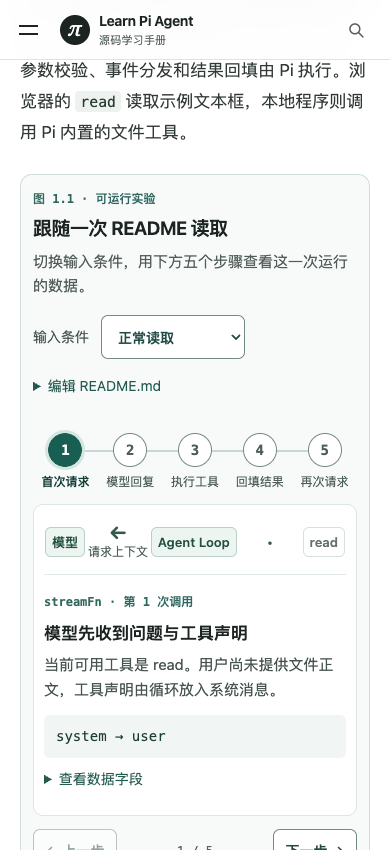
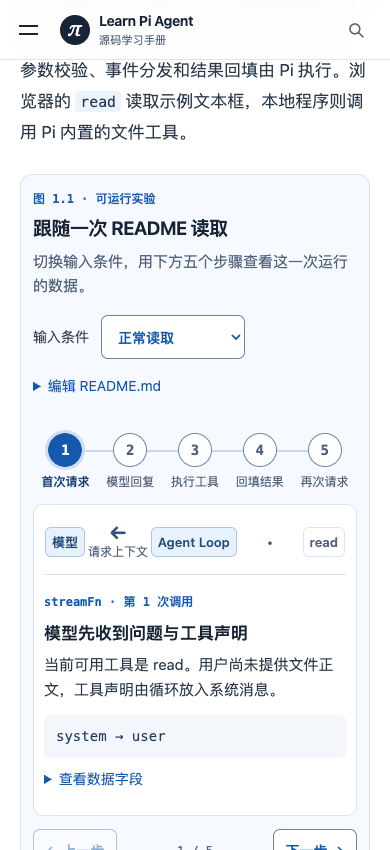
Add a curated agent source reading guide, exercise Pi edits, and switch to blue on white

diff --git a/website/experiments.css b/website/experiments.css
@@ -1,44 +1,44 @@
 .experiment {
   color: var(--ink); margin: 26px 0 12px; padding: 24px;
-  border: 1px solid #cddedb; border-radius: 16px; background: #f7faf9;
+  border: 1px solid var(--line); border-radius: 16px; background: #f6f9ff;
   line-height: 1.6; min-width: 0;
 }
 .experiment-caption { display: grid; gap: 5px; }
-.figure-no, .frame-source { color: #30675f; font: 600 12px/1.5 var(--mono); }
+.figure-no, .frame-source { color: var(--accent); font: 600 12px/1.5 var(--mono); }
 .experiment-caption strong { font-size: 21px; letter-spacing: -.025em; }
-.article .experiment-description { margin: 6px 0 18px; color: #525c59; font-size: 15px; }
+.article .experiment-description { margin: 6px 0 18px; color: var(--muted); font-size: 15px; }
 .experiment-settings { margin-bottom: 16px; }
 .experiment-settings:empty { display: none; }
-.case-picker { display: flex; align-items: center; gap: 12px; font-size: 14px; color: #46564f; }
+.case-picker { display: flex; align-items: center; gap: 12px; font-size: 14px; color: var(--text); }
 .case-picker select, .apply-fixture, .frame-button {
   min-height: 44px; padding: 6px 12px; border: 1px solid var(--control-line); border-radius: 7px;
-  background: #fff; color: #224b45; font: 600 14px/1.45 var(--sans); cursor: pointer;
+  background: #fff; color: var(--accent); font: 600 14px/1.45 var(--sans); cursor: pointer;
 }
 .edit-fixture { margin: 6px 0 0; }
 .edit-fixture summary, .frame-details summary {
-  width: fit-content; min-height: 44px; padding: 10px 0; color: #23594f; cursor: pointer; font-size: 14px;
+  width: fit-content; min-height: 44px; padding: 10px 0; color: var(--accent); cursor: pointer; font-size: 14px;
 }
 .edit-fixture textarea {
   display: block; margin: 3px 0 10px; padding: 10px 12px; width: 100%; resize: vertical;
-  border: 1px solid var(--control-line); border-radius: 7px; font: 14px/1.7 var(--mono); background: white; color: #182c29;
+  border: 1px solid var(--control-line); border-radius: 7px; font: 14px/1.7 var(--mono); background: white; color: var(--ink);
 }
 .frame-track { position: relative; display: grid; grid-template-columns: repeat(5, minmax(0,1fr)); padding: 8px 0 13px; }
-.frame-track::before { content: ''; position: absolute; top: 25px; left: 10%; right: 10%; height: 2px; background: #c8d7d3; }
+.frame-track::before { content: ''; position: absolute; top: 25px; left: 10%; right: 10%; height: 2px; background: #c9d9ec; }
 .frame-node { position: relative; display: grid; justify-items: center; align-content: start; gap: 6px;
-  background: transparent; color: #4d5d58; font: 13px/1.5 var(--sans); border: 0; padding: 0 2px; cursor: pointer; }
+  background: transparent; color: var(--muted); font: 13px/1.5 var(--sans); border: 0; padding: 0 2px; cursor: pointer; }
 .node-number { display: grid; place-items: center; width: 34px; height: 34px; border-radius: 50%;
   border: 1px solid var(--control-line); background: #fff; font: 600 14px/1 var(--mono); }
-.frame-node[aria-pressed="true"] { color: #153e37; font-weight: 700; }
-.frame-node[aria-pressed="true"] .node-number { background: var(--accent); color: #fff; border-color: var(--accent); outline: 3px solid #d5e5df; }
-.frame-body { padding: 16px 18px 13px; border-radius: 10px; background: #fff; border: 1px solid #dce7e3; }
+.frame-node[aria-pressed="true"] { color: #153e71; font-weight: 700; }
+.frame-node[aria-pressed="true"] .node-number { background: var(--accent); color: #fff; border-color: var(--accent); outline: 3px solid #cfdef5; }
+.frame-body { padding: 16px 18px 13px; border-radius: 10px; background: #fff; border: 1px solid var(--line); }
 .frame-title { display: block; margin: 5px 0; font-size: 17px; }
-.article .frame-body p { margin: 0 0 12px; font-size: 15px; line-height: 1.7; color: #46534e; }
-.article .frame-body pre { padding: 10px 12px; background: #f1f5f3; color: #1c3e35; border-radius: 6px;
+.article .frame-body p { margin: 0 0 12px; font-size: 15px; line-height: 1.7; color: var(--text); }
+.article .frame-body pre { padding: 10px 12px; background: var(--soft); color: #233e65; border-radius: 6px;
   font: 14px/1.65 var(--mono); white-space: pre-wrap; overflow-wrap: anywhere; max-height: 240px; }
 .frame-footer { display: flex; align-items: center; justify-content: space-between; gap: 8px; margin-top: 13px; }
-.frame-counter { font: 12px/1 var(--mono); color: #52625d; }
+.frame-counter { font: 12px/1 var(--mono); color: var(--muted); }
 .frame-button:disabled { opacity: .48; cursor: default; }
-.edit-fixture .apply-fixture, .frame-button:not(:disabled):hover { background: #e2efe9; }
+.edit-fixture .apply-fixture, .frame-button:not(:disabled):hover { background: var(--accent-soft); }
 .experiment + p > a:only-child { font-size: 14px; }
 @media (max-width: 639px) {
   .experiment { padding: 15px 12px; border-radius: 12px; }
@@ -58,16 +58,16 @@
   .book-intro img { width: min(100%, 285px); margin-inline: auto; }
 }
 
-.mechanism-map { margin: 0 0 12px; padding: 5px 1px 13px; border-bottom: 1px solid #e1eae6; }
+.mechanism-map { margin: 0 0 12px; padding: 5px 1px 13px; border-bottom: 1px solid var(--line); }
 .read-map { display: grid; grid-template-columns: auto 1fr auto 1fr auto; align-items: center; }
-.map-object { padding: 6px 9px; border-radius: 6px; border: 1px solid #d9dfdd; color: #65716c; font: 600 13px/1.4 var(--sans); }
-.map-object.lit { border-color: #b9cfc7; background: #edf5f1; color: #224f42; }
-.map-edge { text-align: center; display: grid; min-width: 0; color: #345a4a; }
+.map-object { padding: 6px 9px; border-radius: 6px; border: 1px solid var(--line); color: var(--muted); font: 600 13px/1.4 var(--sans); }
+.map-object.lit { border-color: #acc6e4; background: var(--accent-soft); color: #214c7d; }
+.map-edge { text-align: center; display: grid; min-width: 0; color: #314f78; }
 .map-edge b { font-size: 20px; line-height: 1; }
-.map-edge small, .history-group small { color: #4e6258; font: 12px/1.5 var(--sans); }
+.map-edge small, .history-group small { color: var(--muted); font: 12px/1.5 var(--sans); }
 .history-map { display: flex; justify-content: space-around; gap: 6px; align-items: end; }
 .history-group { display: grid; justify-items: center; gap: 5px; }
 .history-ids { display: flex; gap: 4px; }
-.history-ids b { display: grid; place-items: center; width: 28px; height: 28px; border: 1px solid #b9cfc7; background: #edf5f1; border-radius: 5px; color: #224f42; font: 600 14px/1 var(--mono); }
-.history-ids .summary-id { background: #315648; color: #fff; }
+.history-ids b { display: grid; place-items: center; width: 28px; height: 28px; border: 1px solid #acc6e4; background: var(--accent-soft); border-radius: 5px; color: #214c7d; font: 600 14px/1 var(--mono); }
+.history-ids .summary-id { background: var(--accent); color: #fff; }
 @media(max-width:639px) { .map-object { padding: 5px 6px; } .history-ids {gap: 2px;} .history-ids b {width: 25px;} }

diff --git a/website/style.css b/website/style.css
@@ -1,13 +1,13 @@
-/* A quiet reading surface: system type, one evergreen accent, and room for code. */
+/* A quiet reading surface: system type, one blue accent, and room for code. */
 :root {
-  --ink: #1c2422;
-  --text: #303936;
-  --muted: #59645f;
-  --line: #dde3df;
-  --soft: #f3f6f4;
-  --accent: #185e52;
-  --accent-soft: #e6f2ed;
-  --control-line: #758a80;
+  --ink: #172436;
+  --text: #29384a;
+  --muted: #52627a;
+  --line: #dbe4ef;
+  --soft: #f3f7fc;
+  --accent: #1459ad;
+  --accent-soft: #e8f2ff;
+  --control-line: #70849e;
   --sidebar-width: 248px;
   --header-height: 64px;
   --sans: -apple-system, BlinkMacSystemFont, "SF Pro Text", "PingFang SC", "Microsoft YaHei", sans-serif;
@@ -46,13 +46,13 @@ button { -webkit-tap-highlight-color: transparent; }
 .icon-button span { display: block; width: 19px; height: 2px; margin: 3px 0; background: var(--ink); }
 .menu-toggle { display: none; }
 .layout { padding-top: var(--header-height); }
-.sidebar { position: fixed; top: var(--header-height); bottom: 0; left: 0; z-index: 20; width: var(--sidebar-width); background: #f8faf9; border-right: 1px solid var(--line); }
+.sidebar { position: fixed; top: var(--header-height); bottom: 0; left: 0; z-index: 20; width: var(--sidebar-width); background: #f8fafd; border-right: 1px solid var(--line); }
 .sidebar-inner { height: 100%; display: flex; flex-direction: column; overflow-y: auto; overscroll-behavior: contain; padding: 28px 16px 24px; }
 .side-heading { margin: 0 12px 20px; font-size: 15px; font-weight: 650; }
 .nav-group { margin-bottom: 24px; }
 .nav-label { margin: 0 12px 6px; font-size: 12px; line-height: 1.6; font-weight: 600; color: var(--muted); }
 .nav-link { display: flex; align-items: flex-start; gap: 10px; min-height: 38px; padding: 8px 12px; border-radius: 7px; color: #515158; font-size: 14px; line-height: 1.55; }
-.nav-link:hover { background: #edf1ef; color: var(--ink); }
+.nav-link:hover { background: #eaf0f8; color: var(--ink); }
 .nav-link.active { color: var(--accent); background: var(--accent-soft); font-weight: 600; }
 .nav-no { min-width: 19px; padding-top: 3px; color: var(--muted); font: 11px/1.5 var(--mono); }
 .nav-link.active .nav-no { color: var(--accent); }
@@ -73,13 +73,13 @@ button { -webkit-tap-highlight-color: transparent; }
 .article h3 { margin: 32px 0 14px; font-size: 20px; font-weight: 600; }
 .article h4 { margin: 28px 0 12px; font-size: 18px; }
 .article strong { font-weight: 650; color: var(--ink); }
-.article a { color: var(--accent); text-decoration: underline; text-decoration-color: #9bbab0; text-decoration-thickness: 1px; text-underline-offset: 4px; }
+.article a { color: var(--accent); text-decoration: underline; text-decoration-color: #9bbbe0; text-decoration-thickness: 1px; text-underline-offset: 4px; }
 .article a:hover { text-decoration-color: currentColor; }
 .article ul, .article ol { padding-left: 1.5em; margin: 18px 0 24px; }
 .article blockquote { margin: 22px 0; padding: 16px 20px; border-left: 3px solid #9b9ba4; border-radius: 0 8px 8px 0; background: var(--soft); }
 .article blockquote p:last-child { margin-bottom: 0; }
 .article img { display: block; width: auto; max-width: 100%; max-height: 416px; height: auto; object-fit: contain; margin: 28px auto; }
-.article code { padding: 2px 5px; border-radius: 4px; background: #edf2ef; color: #283c34; overflow-wrap: anywhere; box-decoration-break: clone; -webkit-box-decoration-break: clone; font: .87em/1.5 var(--mono); }
+.article code { padding: 2px 5px; border-radius: 4px; background: #edf3fa; color: #253c58; overflow-wrap: anywhere; box-decoration-break: clone; -webkit-box-decoration-break: clone; font: .87em/1.5 var(--mono); }
 .article h2 code, .article h3 code { color: inherit; }
 .lesson-figure { margin: 28px 0; }
 .article .lesson-figure a { display: grid; justify-items: center; gap: 6px; margin: auto; width: fit-content; max-width: 100%; cursor: zoom-in; text-decoration: none; }
@@ -87,16 +87,16 @@ button { -webkit-tap-highlight-color: transparent; }
 .lesson-figure a span { color: var(--accent); font-size: 13px; }
 .lesson-figure a:hover span { text-decoration: underline; }
 .code-block {
-  --code-bg: #f5f7f6; --code-ink: #24322e; --code-meta: #52645b;
-  --code-line: #d9e1dc; --code-key: #743d79; --code-str: #266044;
-  --code-com: #55695f; --code-name: #254f75; --code-num: #7b491e;
+  --code-bg: #f5f8fc; --code-ink: #23354b; --code-meta: #4c607a;
+  --code-line: #d9e3ef; --code-key: #743d79; --code-str: #266044;
+  --code-com: #52647d; --code-name: #254f75; --code-num: #7b491e;
   min-width: 0; margin: 22px 0 28px; overflow: hidden; border: 1px solid var(--code-line);
   border-radius: 11px; background: var(--code-bg); color: var(--code-ink);
 }
 .code-block[data-language="bash"] {
-  --code-bg: #232b28; --code-ink: #eff4f1; --code-meta: #c6d2cb;
-  --code-line: #424e48; --code-key: #efb5df; --code-str: #b6e2b7;
-  --code-com: #bdcbc2; --code-name: #bddcf2; --code-num: #f0cca3;
+  --code-bg: #1d293b; --code-ink: #f2f6fc; --code-meta: #c3d0e2;
+  --code-line: #3c506a; --code-key: #efb5df; --code-str: #b6e2b7;
+  --code-com: #bfcee0; --code-name: #bddcf2; --code-num: #f0cca3;
 }
 .code-toolbar { display: flex; align-items: center; justify-content: space-between; min-height: 40px; padding: 0 8px 0 18px; border-bottom: 1px solid var(--code-line); color: var(--code-meta); font: 600 12px/1.5 var(--mono); }
 .code-toolbar button { min-height: 40px; padding: 4px 10px; border: 0; border-radius: 5px; background: transparent; color: inherit; font: 13px/1.5 var(--sans); }
@@ -142,7 +142,7 @@ button { -webkit-tap-highlight-color: transparent; }
 .home-intro p { margin: 0 0 24px; color: var(--muted); font-size: 18px; line-height: 1.75; }
 .home-actions { display: flex; align-items: center; flex-wrap: wrap; gap: 16px 24px; }
 .primary-btn { display: inline-flex; align-items: center; justify-content: center; gap: 12px; min-height: 46px; padding: 10px 22px; border-radius: 999px; background: var(--accent); color: #fff; font-size: 15px; white-space: nowrap; }
-.primary-btn:hover { background: #134c42; }
+.primary-btn:hover { background: #104787; }
 .continue-link, .section-link { display: inline-flex; align-items: center; gap: 5px; min-height: 44px; color: var(--accent); font-size: 15px; }
 .continue-link:hover, .section-link:hover { text-decoration: underline; text-underline-offset: 4px; }
 .hero-visual { display: flex; flex-direction: column; justify-content: space-between; height: 210px; padding: 22px 28px; border-radius: 14px; background: var(--soft); }

diff --git a/website/app.js b/website/app.js
@@ -36,7 +36,7 @@ function group(label, entries) {
 }
 function renderNav() {
   const guides = ['home','00-source-learning-path','00-course-structure'].map(s => s === 'home' ? {slug:'home', title:'课程首页'} : bySlug(s)).filter(Boolean);
-  const refs = ['source-map','glossary','papers','version-baseline'].map(bySlug).filter(Boolean);
+  const refs = ['open-source-agent-reading','source-map','glossary','papers','version-baseline'].map(bySlug).filter(Boolean);
   nav.innerHTML = group('开始学习',guides) + group('基础与运行',chapters.slice(0,4)) + group('上下文与能力',chapters.slice(4,9)) + group('工作流与编排',chapters.slice(9,14)) + group('工程实践',chapters.slice(14)) + group('参考资料',refs);
 }
 function home() {

diff --git a/website/build.py b/website/build.py
@@ -99,7 +99,7 @@ for p in files:
         elif not href.startswith('#'):
             parts=href.split('#',1); target=(p.parent/unquote(parts[0])).resolve()
             if target in slugs:
-                a['href']='#/'+slugs[target]+(('?section='+quote(parts[1])) if len(parts)>1 else '')
+                a['href']='#/'+slugs[target]+(('?section='+quote(unquote(parts[1]))) if len(parts)>1 else '')
             else:
                 try:
                     rel=target.relative_to(ROOT).as_posix()

diff --git a/references/open-source-agent-reading.md b/references/open-source-agent-reading.md
@@ -1,0 +1,39 @@
+# 高星 Agent 开源资料：从哪一段代码读起
+
+如果你想知道一个 Coding Agent 到底怎样工作，我建议先读一节能放进脑子里的教学实现，再找一个成熟项目，拿相同的输入比较它们的行为。以下五个项目分别回答不同的问题。星数来自 2026-11-02 查询的 GitHub 仓库数据，是整个项目的关注度；选入哪一节，依据是能否找到具体输入、实现或检验结果。
+
+| 项目 | GitHub Stars（约） | 类型 | 建议直接打开 |
+| --- | --- | --- | --- |
+| [Learn Claude Code](https://github.com/shareAI-lab/learn-claude-code) | 79.8k | 有中文的自建 Harness 教程 | [第 8 课：上下文压缩](https://github.com/shareAI-lab/learn-claude-code/blob/main/s08_context_compact/README.zh.md) |
+| [Aider](https://github.com/Aider-AI/aider) | 49.9k | 实际编码工具，适合源码对读 | [SEARCH/REPLACE 的匹配实现](https://github.com/Aider-AI/aider/blob/main/aider/coders/editblock_coder.py#L134-L183) |
+| [LangGraph](https://github.com/langchain-ai/langgraph) | 44.3k | 图执行框架，适合读恢复测试 | [一个并行节点失败后从哪里继续](https://github.com/langchain-ai/langgraph/blob/main/libs/langgraph/tests/test_pregel.py#L891-L988) |
+| [Hello-Agents](https://github.com/datawhalechina/hello-agents) | 85.8k | 中文系统教材，附实验代码 | [第 12 章：智能体性能评估](https://github.com/datawhalechina/hello-agents/blob/main/docs/chapter12/%E7%AC%AC%E5%8D%81%E4%BA%8C%E7%AB%A0%20%E6%99%BA%E8%83%BD%E4%BD%93%E6%80%A7%E8%83%BD%E8%AF%84%E4%BC%B0.md) |
+| [Hugging Face Agents Course](https://github.com/huggingface/agents-course) | 34.3k | 有实际任务和交付格式的课程 | [最终项目：拿 GAIA 题目测自己的 Agent](https://github.com/huggingface/agents-course/blob/main/units/en/unit4/hands-on.mdx) |
+
+## 先读 Learn Claude Code：上下文超预算时，先丢什么
+
+从第 8 课的 Python 文件里找 `ContextCompactor.prepare()`。假设工具刚返回一大段日志。先跟踪这段输出是否能被缩短并从别处找回，再跟踪整份历史是否仍超预算。换成几十个很短的往返回合，总量也可能超限，两种输入却不必经由同一分支。读源码时，把每次调用后留在 messages 的内容写在旁边，比背“上下文压缩”这个名词有效。[中文课文](https://github.com/shareAI-lab/learn-claude-code/blob/main/s08_context_compact/README.zh.md) · [prepare 的执行次序](https://github.com/shareAI-lab/learn-claude-code/blob/main/s08_context_compact/code.py#L518-L545)
+
+这是作者自行实现的教学 Harness。对读 Pi 时可以问一个更窄的问题：摘要产生以后，原先那条工具结果还能从哪里找到？在 Pi 的会话树里，读取日志与构建下一次模型输入是两个操作；一份摘要出现在投影中，不代表旧条目已经从日志里删除。用同一条记录分别观察这两层，就能比较两个系统究竟保存了什么。[Pi 的会话投影实验](../docs/06-session-memory-retrieval-and-compaction.md)
+
+## 再读 Aider：同一个替换请求，两个工具会改到同一处吗
+
+在 Aider 的 `perfect_replace` 中，外层循环从上到下滑过文件的行数组。找到第一段逐行相等的内容，就拼接前缀、替换文本和后缀并返回。拿一个生产配置和开发配置各有一行 `limit=10` 的文件，只给整行作为搜索条件。单看这个精确匹配函数，先出现的生产配置会被替换。这个结论针对该函数及该编辑格式；Aider 还有其他编辑格式，读取本段不能概括所有路径。[选择匹配区间](https://github.com/Aider-AI/aider/blob/main/aider/coders/editblock_coder.py#L134-L183) · [上游编辑块测试](https://github.com/Aider-AI/aider/blob/main/tests/basic/test_editblock.py)
+
+把同一个文件交给 Pi，结果是工具报告有两处匹配，磁盘写入次数为零。将开发配置的上一行也放入 oldText，才会改到预期位置。课程第四章给出这组输入和可运行程序，并进一步检查两个修改区间重叠、字符归一化后出现重复、写入后收到取消这几种情况。研究一个真实编码工具，从这里进入比先罗列它支持多少模型更贴近使用者会碰到的故障。[Pi 编辑工具源码实验](../docs/04-tools-and-function-calling.md#写入实验一次-edit-为什么会被拒绝)
+
+## 读 LangGraph 的失败测试：恢复时哪段工作会重复
+
+先打开 `test_pending_writes_resume`，看两个节点各有一个调用计数器。一个返回更新，另一个抛异常并触发配置好的重试。首次调用失败时，两个计数分别是 1 和 2。保持错误再从相同线程继续，测试断言它们变成 1 和 4。若简单地把整张图重跑，这两个数字都应增加。沿断言往前追 checkpoint 和 pending writes，就能找到“成功节点的结果被留下”具体对应哪一层数据。[测试与断言](https://github.com/langchain-ai/langgraph/blob/main/libs/langgraph/tests/test_pregel.py#L891-L988) · [持久化说明](https://docs.langchain.com/oss/python/langgraph/persistence)
+
+对读 Pi 的 Durable 章，要重新确定恢复的对象。图框架能记住某个节点的状态更新，不代表支付服务一定能辨认一次重复请求。把故障点放在“外部动作已经完成、本地结果还没写入”之间，看看任务能凭什么身份查询上一次操作。比较系统时，先写出哪一边拥有事实，再讨论是否安全重跑。[Pi 的任务恢复](../docs/16-durable-execution-and-human-in-the-loop.md)
+
+## 读 Hello-Agents 与 Hugging Face：一条轨迹凭什么得分
+
+Hello-Agents 第 12 章将工具调用评测与完整任务评测分开。它的 BFCL 示例可限制为五个样本，并逐条输出问题、预测值、期望值和是否成功。遇到“模型会选工具，但工具参数经常错”的问题，先看一对预测和期望，把错误定位到工具名、参数名或参数值，比只看总体准确率更直接。[中文评估章](https://github.com/datawhalechina/hello-agents/tree/main/docs/chapter12) · [带逐样本输出的 BFCL 程序](https://github.com/datawhalechina/hello-agents/blob/main/code/chapter12/03_bfcl_custom_evaluation.py)
+
+Hugging Face 的最终项目把目标换成完整任务：课程选取 20 道 GAIA 验证集的一级问题，部分任务需要取附件，提交时将任务编号与最终答案配对。它适合检验“能否独立完成题目”。如果程序提交错答案，仅看得分并不能区分它读错了附件、推理出错，还是提交格式不符。回到 Pi 的轨迹与工具事件，才能找出第一个偏离预期的步骤。[最终项目的输入与交付格式](https://github.com/huggingface/agents-course/blob/main/units/en/unit4/hands-on.mdx) · [Pi 的可观测性与评测](../docs/18-observability-evaluation-and-harness-engineering.md)
+
+## 现有 Pi 课程还缺什么
+
+目前能沿一次确定的请求追到工具和会话，刚补上的文件编辑实验也能检验写入条件。要把这些机制用来开发自己的编码 Agent，还缺三类完整练习：让读者亲手补上一个源码决策并跑回归测试，让同一长任务在固定预算下对比两种上下文策略，以及把真实模型在多道仓库修复题上的补丁、测试结果和费用逐项配对。上面的五份资料分别能提供实现、故障用例和评测方法。这三类练习仍是课程的缺口。

diff --git a/docs/04-tools-and-function-calling.md b/docs/04-tools-and-function-calling.md
@@ -258,6 +258,57 @@ expect(turnToolResultIds).toEqual(["tool-1", "tool-2"]);
 
 在课程的本地示例中，`node cli.mjs missing` 让脚本模型请求不存在的 `absent.md`。实测 `read.execute` 进入 1 次，随后 `read-1` 收到 `isError=true`。与上一章截断场景的 0 次对照，两条同为错误的工具结果就能定位到不同的失败阶段。[运行方法](../examples/read-loop/README.md) · [磁盘读取入口](../examples/read-loop/cli.mjs)
 
+## 写入实验：一次 edit 为什么会被拒绝
+
+你让编码 Agent 把**开发环境**的限额从 10 改成 12，文件中却有两个环境。模型提出替换「两个空格、`limit=10`、换行」这一整行。JSON 参数合规、文件存在、旧文字也找得到。这次能写吗？
+
+```text
+prod:
+  limit=10
+dev:
+  limit=10
+```
+
+先从调用者的目的看：两个位置都匹配，只有第二处符合“开发环境”。工具拿到的是文件路径、旧文本和新文本，参数中没有开发环境这个独立字段。只要执行器决定接受第一处，模型就可能得到一个成功结果，而生产配置已经被改了。要看 Pi 如何作选择，就得追到实际写入之前。
+
+### 在文件里找到它，还要证明它可以唯一定位
+
+`createEditToolDefinition` 将路径解析到当前工作目录，进入该文件的修改队列，读取字节，剥离开头可能存在的 UTF-8 BOM，并将换行暂时归一化为 LF。接着它将**原文件内容与整批 edits**交给 `applyEditsToNormalizedContent`。这个函数必须先构造出新的完整内容，外层才有东西可交给 `ops.writeFile`。[工具调用与实际写入](https://github.com/earendil-works/pi/blob/072e413bf3f8ee0cf8d9f2862fd1dbfc5d337afa/packages/coding-agent/src/core/tools/edit.ts#L157-L208)
+
+在替换函数中找到两个相邻判断。`fuzzyFindText` 返回一处候选位置；如果一处都没有，抛出未找到错误。随后 `countOccurrences` 另算出现次数，大于 1 又会抛错。**找到第一处**只能证明至少有一处；要写入还必须排除第二处。把上一行 `dev:` 也放进旧文本，再用含相同前缀的新文本替换，候选区间就只有一个。这次工具写盘一次，`prod` 行保持原值。[查找、计数与保存位置](https://github.com/earendil-works/pi/blob/072e413bf3f8ee0cf8d9f2862fd1dbfc5d337afa/packages/coding-agent/src/core/tools/edit-diff.ts#L316-L340)
+
+同样的输入也可以拿去读 Aider。它的 SEARCH/REPLACE 编辑器有个短函数 `perfect_replace`：固定搜索段的行数，在完整文件上向前滑动窗口，遇到第一段逐行完全相等时立即返回拼接结果。在上面的输入上，独立调用这个函数得到 `prod=12`、`dev=10` 所对应的文件内容；Pi 则拒绝这次模糊意图。这里比较的是 Aider 的这一条精确匹配分支与 Pi 的编辑工具，两个实现对“已经找到”承担的责任不同。[Aider 的匹配函数](https://github.com/Aider-AI/aider/blob/main/aider/coders/editblock_coder.py#L146-L155)
+
+再换一个输入：文件有两行，分别是 `name=“dev”` 与 `name="dev"`，模型提供直引号的那行。肉眼只看到一个逐字相等的目标，Pi 在本例中仍报告两处。`countOccurrences` 对文件和搜索串都运行 `normalizeForFuzzyMatch` 再计数，弯引号与直引号会折叠成相同字符。这样一来，**哪怕精确查找已经成功，唯一性检查仍可能失败**。此时应补入能区分位置的相邻文本，而不是反复让模型重新转义引号。[字符归一化](https://github.com/earendil-works/pi/blob/072e413bf3f8ee0cf8d9f2862fd1dbfc5d337afa/packages/coding-agent/src/core/tools/edit-diff.ts#L35-L53) · [出现次数的实际算法](https://github.com/earendil-works/pi/blob/072e413bf3f8ee0cf8d9f2862fd1dbfc5d337afa/packages/coding-agent/src/core/tools/edit-diff.ts#L247-L251)
+
+### 同一批两个修改，为什么从后往前应用
+
+用去掉 BOM、统一换行后的字符串 `aa\nzz\n` 手算一次。第一项要将 `aa` 替成七个 a，旧区间为 [0, 2)；第二项要将 `zz` 替成 Z，旧区间为 [3, 5)。两项的位置都来自**修改前**的文件。如果先把第一项增长五个字符，再用原先的位置 3 去找第二项，那里早已变成 a。Pi 先按起点排序，比较相邻区间，若后一个起点落在前一个区间内便报重叠。区间互不重叠时从右往左替换：先动位置 3，不会移动前面的 0；再动位置 0，已经处理完的尾部会整体随它移动。[区间校验](https://github.com/earendil-works/pi/blob/072e413bf3f8ee0cf8d9f2862fd1dbfc5d337afa/packages/coding-agent/src/core/tools/edit-diff.ts#L341-L358) · [逆序写入内存字符串](https://github.com/earendil-works/pi/blob/072e413bf3f8ee0cf8d9f2862fd1dbfc5d337afa/packages/coding-agent/src/core/tools/edit-diff.ts#L111-L122)
+
+所以第二项找不到、第二项与第一项重叠，都发生在写文件**之前**。第一项即使单独看完全合法，本批也不会先把它写进去。成功时外层按原有换行形式恢复文本、补回 BOM，再调用文件后端。实验直接比较文件字节，能区分界面上看起来完全一样的 LF 与 CRLF。
+
+### 把错误提示和磁盘事实分别量出来
+
+以下实验在临时目录运行 Pi 内置编辑工具，计数器包在真正的写文件函数外面。每次调用完都重新打开磁盘文件做断言；无需模型密钥。[完整程序](../examples/read-loop/edit-boundaries.mjs)
+
+```bash
+cd examples/read-loop
+npm ci
+node edit-boundaries.mjs
+```
+
+| 只改动这个条件 | 调用者观察到 | 写盘次数 | 文件里实际留下什么 |
+| --- | --- | --- | --- |
+| 只给重复的旧行 | 两处匹配 | 0 | 两处仍为 10 |
+| 把目标配置行前的 `dev:` 也纳入匹配 | 成功，附 patch | 1 | 只有 dev 变成 12 |
+| 第一项正确，第二项不存在 | 定位到第二项的错误 | 0 | 第一项也没写入 |
+| 两项都唯一，但区间重叠 | 区间冲突 | 0 | 保持原文 |
+| 一处直引号与一处弯引号 | 归一化后重复 | 0 | 保持两种原始引号 |
+| 带 BOM、CRLF 的文件，两个替换长度不同 | 成功，附 patch | 1 | 两项均正确，BOM 与 CRLF 都在 |
+| 后端已写完，随后发出取消信号 | 调用抛出中止错误 | 1 | dev 已变成 12 |
+
+最后一行值得单独停一下。文件后端完成写入后，`execute` 还会再检查一次取消信号。实验故意在这个间隙触发取消，调用者收到错误，而文件已经变了。前几行证明的是「校验失败前没有执行写操作」，最后一行说明这项保证止于何处。若上层看到取消就盲目重试同一批 oldText，第二次很可能变成找不到旧文字。先重读或核对实际 diff，才能决定下一步。第十六章的持久任务会面对同一类问题，只是事实可能保存在另一项服务里。[任务中断后的恢复](16-durable-execution-and-human-in-the-loop.md)
+
 > **先预测**　给 read 指定 limit=1，是不是意味着 Pi 在磁盘上只读一行？
 >
 > **核对推导**　普通文本路径先读文件、解码、按行切分，再对返回给模型的内容应用行数和字节限制。结果只含一行不能证明磁盘只读了一行；要验证磁盘读取量，应观察文件操作那一层。

diff --git a/website/UI-REVIEW.md b/website/UI-REVIEW.md
@@ -1,6 +1,6 @@
 # 课程网站阅读界面检查
 
-覆盖首页、18 章正文、2 份学习指南和 5 份参考资料。使用 Chromium 在 320、390、768、1024、1440 像素宽度下逐页打开，共 130 组页面与视口组合，均未出现整页横向溢出。
+覆盖首页、18 章正文、2 份学习指南和 6 份参考资料。使用 Chromium 在 320、390、768、1024、1440 像素宽度下逐页打开，共 135 组页面与视口组合，均未出现整页横向溢出。
 
 ## 文字与色彩
 
@@ -12,7 +12,7 @@
 | 目录 | 课程目录常驻，1360px 起同时展示本页目录 | 课程目录为抽屉，本页目录可以展开 |
 | 图与表 | 配图按比例展示，可打开大图 | 宽表单独滚动，剩余列有文字提示 |
 
-首页主按钮、选中章节、链接与实验当前步骤使用深绿色。白底正文对比度为 11.90∶1，白底链接为 7.60∶1，浅色代码面板上的注释为 5.46∶1。代码的关键词、字符串和数字仍使用独立的语法颜色。[首页](review/home.png) · [桌面正文](review/desktop.png) · [手机正文](review/mobile.png)
+首页主按钮、选中章节、链接与实验当前步骤使用蓝色，阅读区域使用白底。白底正文对比度为 11.94∶1，白底链接为 6.86∶1，浅色代码面板上的注释为 5.67∶1。代码的关键词、字符串和数字仍使用独立的语法颜色。[首页](review/home.png) · [桌面正文](review/desktop.png) · [手机正文](review/mobile.png)
 
 ## 浏览器复查
 
@@ -20,6 +20,6 @@
 - **表格**　在第 13 章用方向键横移宽表，读到第三列。切回桌面且表格完整可见时，滚动提示和额外的键盘停靠点都消失。[手机表格](review/mobile-table.png)
 - **配图与图解**　18 张章节配图都提供大图入口。实际打开第 14 章插图得到 1672 × 941 的图片。运行第一、三、六章图解并切换输入、步骤与会话分支。[桌面图解](review/read-loop-desktop.png) · [手机图解](review/read-loop-mobile.png)
 - **查找与跳转**　在手机打开并关闭课程目录，从搜索结果跳到对应小节，检查字号、遮罩和点击区域。[手机目录](review/mobile-menu.png) · [搜索](review/search.png)
-- **文字对比**　对 26 页及手机目录、搜索两个展开状态运行 axe 的文字对比检查。图解步骤线、符号单元格和搜索结果共有 38 处需要补核。滚动到相应位置后，以实际字体色和背景色复算，对比最低为 6.15∶1。
+- **文字对比**　对 27 页及手机目录、搜索两个展开状态运行 axe 的文字对比检查。图解步骤线、符号单元格和搜索结果共有 38 处需要补核。滚动到相应位置后，以实际字体色和背景色复算，对比最低为 5.88∶1。
 
 检查使用 Chromium 的桌面与手机视口模拟。

diff --git a/examples/read-loop/README.md b/examples/read-loop/README.md
@@ -30,6 +30,7 @@ npm run session
 | 章节 | 运行 | 对照什么 |
 | --- | --- | --- |
 | 02–05 | `node boundaries.mjs stream`、`queue`、`bytes`、`context`（任选一个作为参数） | 两个工具参数交错、消息投递时机、整行字节预算和系统指令重放 |
+| 04 | `node edit-boundaries.mjs` | 运行内置 edit，检验匹配歧义、批量区间、文件编码与取消后的磁盘内容 |
 | 06 | `node recompact.mjs` | 两次压缩、一次编辑，再切回旧叶子的可见消息 |
 | 07 | [MCP 往返](../mcp-roundtrip/roundtrip.mjs)：在其目录运行 `npm ci && npm start` | 两个响应乱序与一条被取消的请求 |
 | 08、09 | `node skills.mjs`、`node context-hooks.mjs` | 同名技能留下谁、旧扩展上下文何时失效 |

diff --git a/docs/00-source-learning-path.md b/docs/00-source-learning-path.md
@@ -36,3 +36,5 @@ npm run build
 ```
 
 所有示例都附有讲解，你可以选择只在网页上沿图阅读，也可以在本地运行同一份程序。查询某个函数属于哪个包时，可使用[源码地图](../references/source-map.md)和[术语表](../references/glossary.md)。
+
+想看其他项目如何处理同一个问题，可以打开[高星开源 Agent 学习资料](../references/open-source-agent-reading.md)，从编辑器的匹配规则、上下文预算或恢复测试选一个与 Pi 对读。
